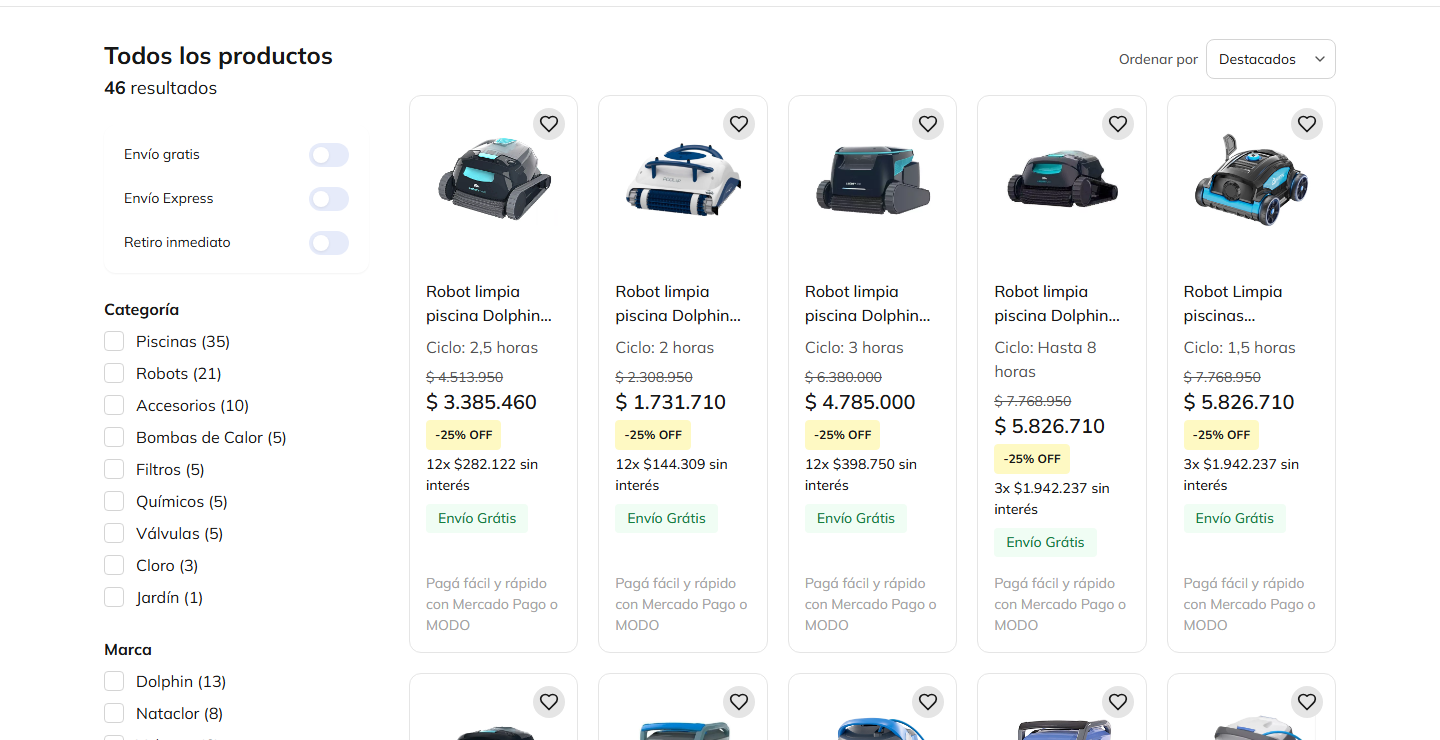
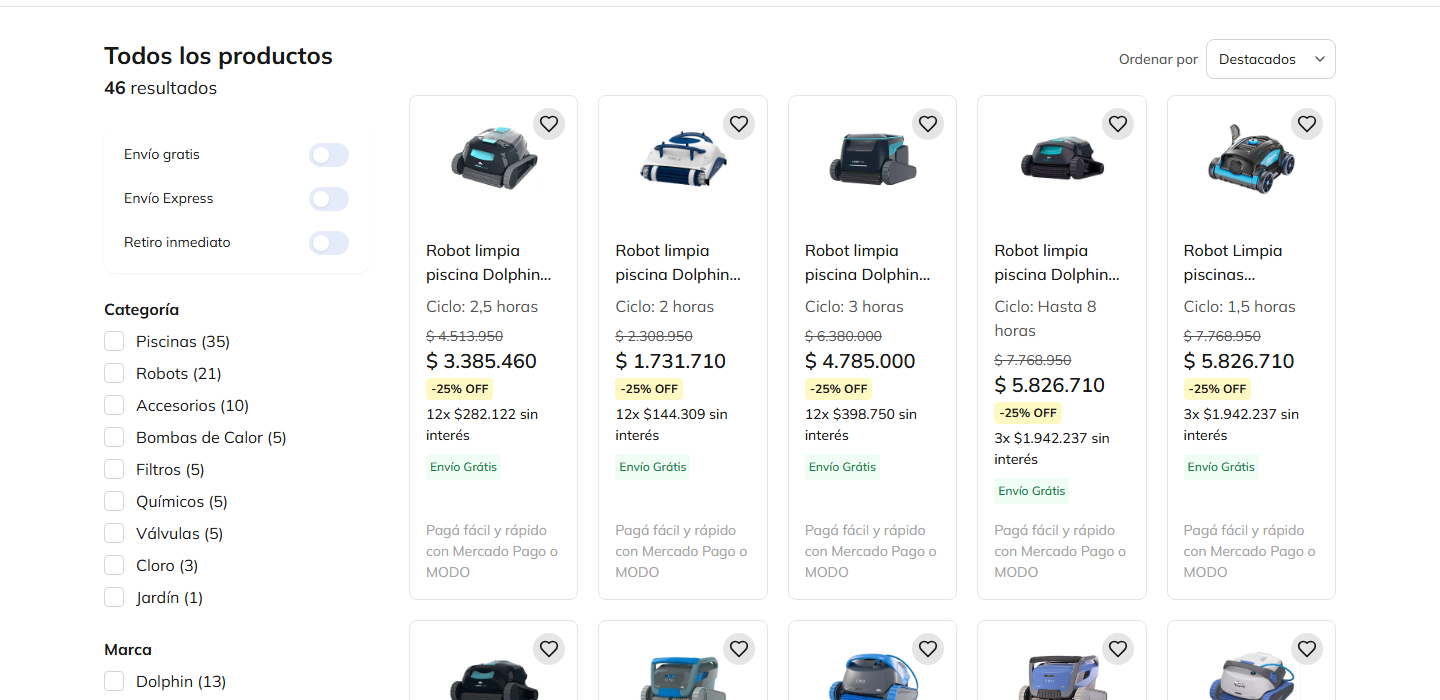
style(card): imagen 4:3, radios md y lg, product-tag y badge de descuento más compactos

diff --git a/styles/patterns/product-card.css b/styles/patterns/product-card.css
@@ -8,13 +8,13 @@
     height: 100%;
     overflow: hidden;
     border: var(--border-width-sm) solid var(--color-border-default);
-    border-radius: var(--radius-lg);
+    border-radius: var(--radius-md);
     background-color: var(--color-surface-default);
     transition: box-shadow var(--duration-base) var(--easing-standard);
   }
   .product-card:hover { box-shadow: var(--elevation-card-hover); }
 
-  .product-card__media { position: relative; aspect-ratio: 1 / 1; padding: var(--space-4); }
+  .product-card__media { position: relative; aspect-ratio: 4 / 3; padding: var(--space-4); }
   .product-card__photo-link { position: absolute; inset: var(--space-4); display: block; }
   .product-card__image { object-fit: contain; }
   .product-card__fav { position: absolute; top: var(--space-3); right: var(--space-3); }
@@ -65,12 +65,12 @@
 
   /* Etiquetas de stock y entrega (también en la vista rápida) */
   .product-tags { display: flex; flex-wrap: wrap; gap: var(--space-2); }
-  .product-tag { padding: var(--space-1) var(--space-2-5); border-radius: var(--radius-sm); font-size: var(--font-size-sm); line-height: var(--font-line-height-sm); font-weight: var(--font-weight-medium); }
+  .product-tag { padding: var(--space-1) var(--space-1); border-radius: var(--radius-sm); font-size: var(--font-size-xs); line-height: var(--font-line-height-sm); font-weight: var(--font-weight-medium); }
   .product-tag--success { background-color: var(--color-feedback-success-bg); color: var(--color-feedback-success-text); }
   .product-tag--danger { background-color: var(--color-feedback-error-solid); color: var(--color-text-inverse); }
 
   .product-card--skeleton { overflow: hidden; }
-  .product-card--skeleton .skeleton-media { aspect-ratio: 1 / 1; border-radius: 0; }
+  .product-card--skeleton .skeleton-media { aspect-ratio: 4 / 3; border-radius: 0; }
   .skeleton__spaced { margin-top: var(--space-4); }
   .product-card--skeleton .skeleton-body { display: flex; flex-direction: column; gap: var(--space-3); padding: var(--space-4); }
   .skeleton-body__title { display: flex; flex-direction: column; gap: var(--space-2); }

diff --git a/styles/ketea-theme.css b/styles/ketea-theme.css
@@ -22,8 +22,8 @@
   --badge-discount-fg: var(--color-commerce-discount-fg);
   --badge-discount-font-size: var(--font-size-xs);
   --badge-discount-font-weight: var(--font-weight-bold);
-  --badge-discount-padding-x: var(--space-1-5);
-  --badge-discount-padding-y: var(--space-1-5);
+  --badge-discount-padding-x: var(--space-1);
+  --badge-discount-padding-y: var(--space-1);
   --badge-discount-radius: var(--radius-sm);
   --button-add-to-cart-bg: var(--color-action-primary-bg);
   --button-add-to-cart-bg-active: var(--color-action-primary-bg-active);

diff --git a/styles/patterns/service-blocks.css b/styles/patterns/service-blocks.css
@@ -4,7 +4,7 @@
   .service-blocks__card {
     padding: var(--space-6);
     border: var(--border-width-sm) solid var(--color-border-default);
-    border-radius: var(--radius-xl);
+    border-radius: var(--radius-lg);
     background-color: var(--color-surface-default);
   }
   .service-block { display: flex; align-items: center; gap: var(--space-4); }
